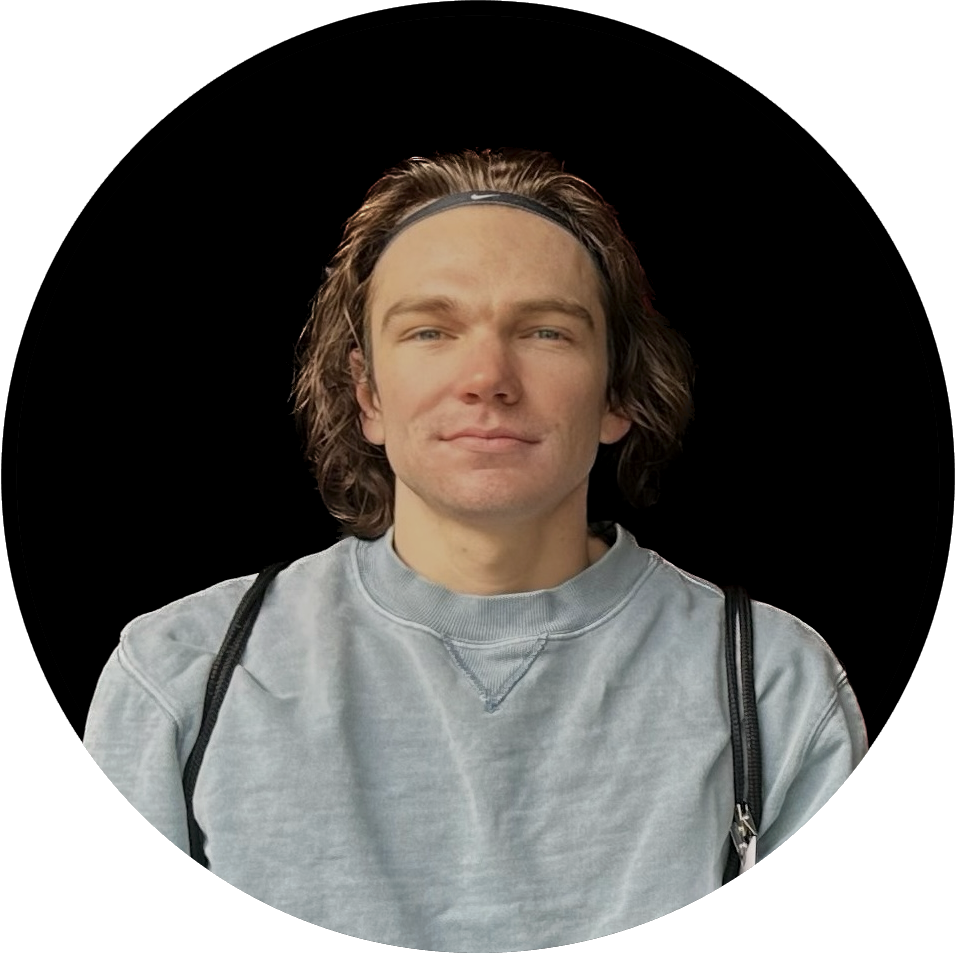
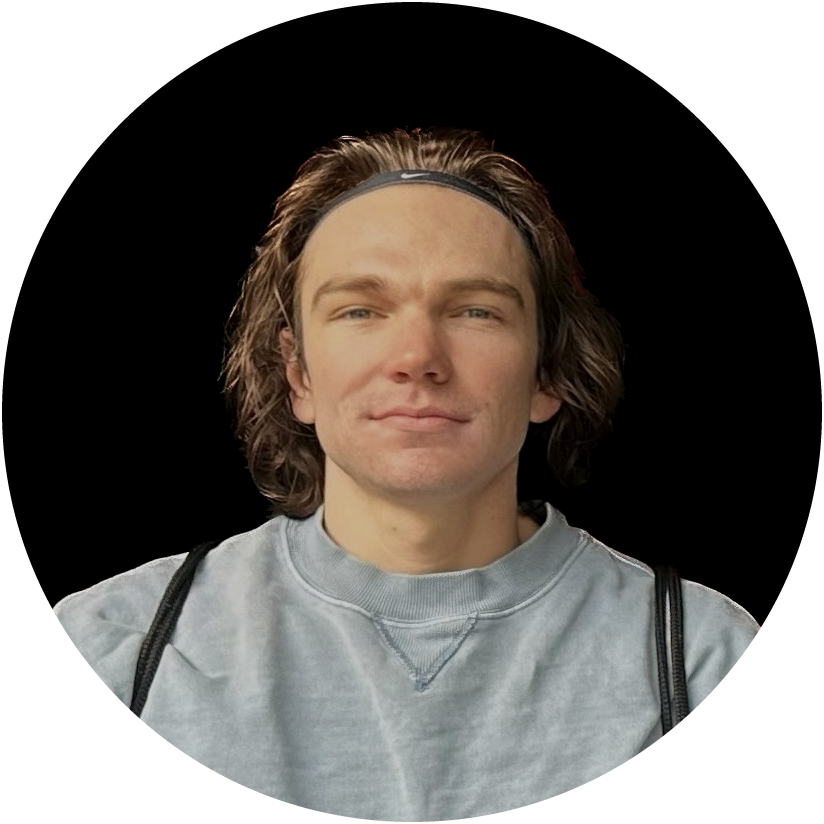
updated signature

diff --git a/views/pages/index.html b/views/pages/index.html
@@ -48,7 +48,7 @@
     <div class="container-fluid h-100" id="homeBlock">
         <div class="row align-items-center h-100">
             <div class="col-12 mx-auto" id="homeCenter">
-                <img src="/img/signature.png" alt="Ethan Genser" id="signature"><br>
+                <img src="/img/signature2.png" alt="Ethan Genser" id="signature"><br>
                 <p id="subtitle">Software Engineer</p>
                 <img src="/img/me3.1.png" alt="profile picture" id="profile">
                 <br><br>

diff --git a/public/stylesheets/index.css b/public/stylesheets/index.css
@@ -64,11 +64,11 @@ table {
     height: 30%;
 }
 #profile {
-    height: 80%;
+    height: 100%;
     margin: 10px 0 10px 0;
 }
 #signature {
-    width: 400px;
+    height: 20%;
     padding-left: 20px;
 }
 #subtitle {
